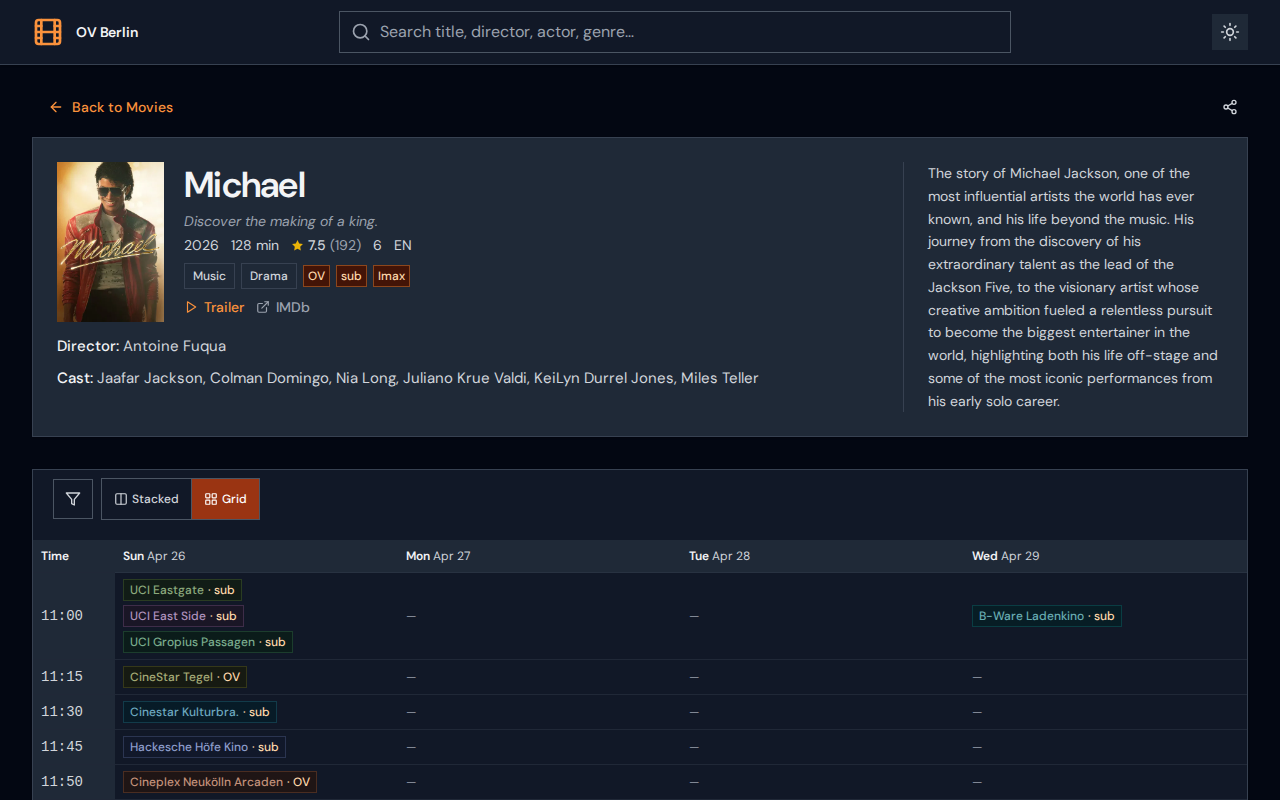
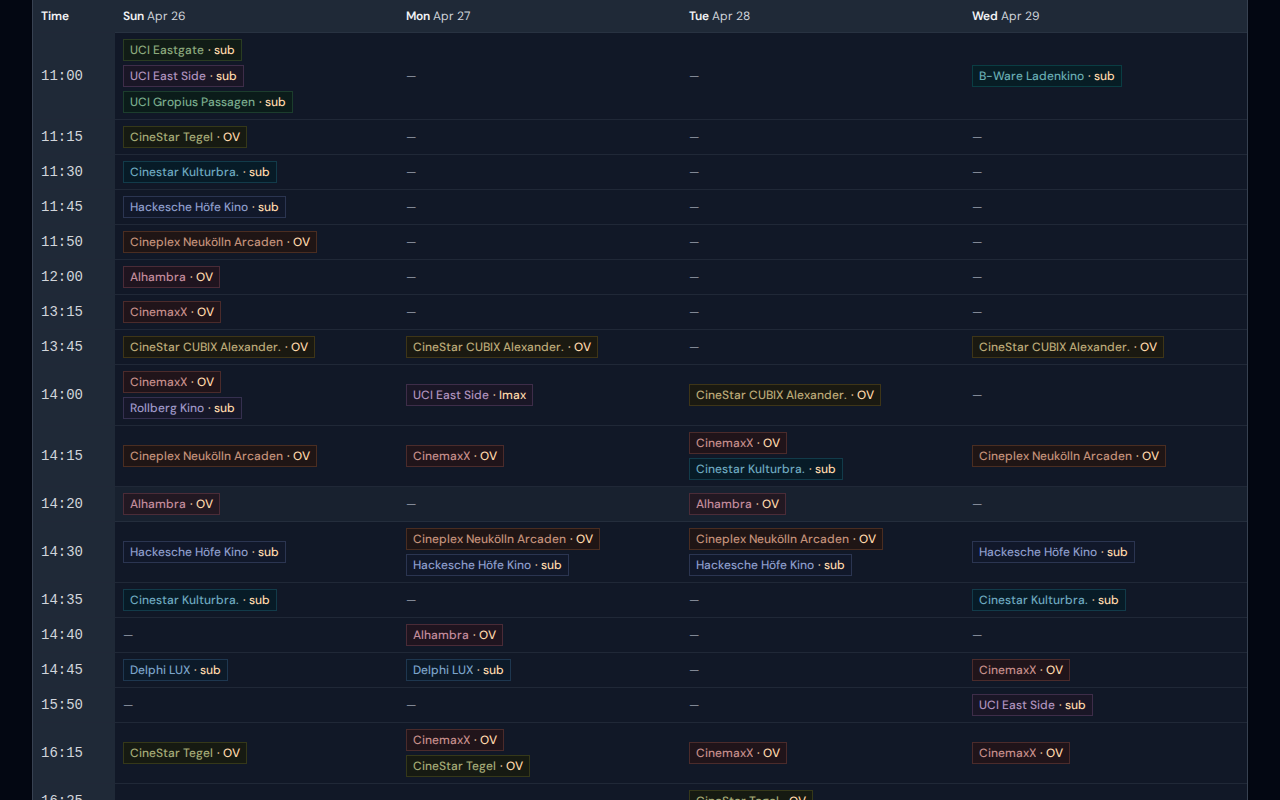
docs: stacked view screenshot at mobile size, grid view scrolled to table

diff --git a/scripts/screenshot.ts b/scripts/screenshot.ts
@@ -3,7 +3,8 @@ import path from 'path';
 
 const BASE_URL = process.argv[2] || 'https://ovberlin.site';
 const OUT_DIR = path.join(__dirname, '../docs');
-const VIEWPORT = { width: 1280, height: 800 };
+const DESKTOP = { width: 1280, height: 800 };
+const MOBILE = { width: 390, height: 844 };
 
 async function wait(ms: number) {
   return new Promise(r => setTimeout(r, ms));
@@ -12,20 +13,22 @@ async function wait(ms: number) {
 async function main() {
   console.log(`Capturing screenshots from ${BASE_URL}...`);
   const browser = await chromium.launch();
-  const ctx = await browser.newContext({ viewport: VIEWPORT, colorScheme: 'dark' });
-  const page = await ctx.newPage();
+
+  // ── Desktop context ──────────────────────────────────────────────────────
+  const desktop = await browser.newContext({ viewport: DESKTOP, colorScheme: 'dark' });
+  const page = await desktop.newPage();
 
   // 1 — Homepage: movie listing
   await page.goto(BASE_URL, { waitUntil: 'networkidle' });
   await page.waitForSelector('.ui-card', { timeout: 15000 });
   await wait(500);
-  await page.screenshot({ path: `${OUT_DIR}/screenshot1.png`, fullPage: false });
+  await page.screenshot({ path: `${OUT_DIR}/screenshot1.png` });
   console.log('✓ screenshot1.png — movie listing');
 
   // 4 — Search results
   await page.fill('input[type="text"]', 'drama');
   await wait(800);
-  await page.screenshot({ path: `${OUT_DIR}/screenshot4.png`, fullPage: false });
+  await page.screenshot({ path: `${OUT_DIR}/screenshot4.png` });
   console.log('✓ screenshot4.png — search results');
 
   // Navigate to first movie detail page
@@ -33,20 +36,31 @@ async function main() {
   await wait(400);
   const firstCard = page.locator('a[href^="/movie/"]').first();
   const href = await firstCard.getAttribute('href');
+
+  // 3 — Detail page: grid view, scrolled to showtimes
   await page.goto(`${BASE_URL}${href}`, { waitUntil: 'networkidle' });
   await wait(600);
-
-  // 2 — Detail page: stacked view (default)
-  await page.screenshot({ path: `${OUT_DIR}/screenshot2.png`, fullPage: false });
-  console.log('✓ screenshot2.png — detail stacked view');
-
-  // 3 — Detail page: grid view
   const gridBtn = page.getByTitle('Grid view');
   await gridBtn.click();
   await wait(400);
-  await page.screenshot({ path: `${OUT_DIR}/screenshot3.png`, fullPage: false });
+  await page.locator('table').first().scrollIntoViewIfNeeded();
+  await wait(300);
+  await page.screenshot({ path: `${OUT_DIR}/screenshot3.png` });
   console.log('✓ screenshot3.png — detail grid view');
 
+  await desktop.close();
+
+  // ── Mobile context ───────────────────────────────────────────────────────
+  const mobile = await browser.newContext({ viewport: MOBILE, colorScheme: 'dark' });
+  const mpage = await mobile.newPage();
+
+  // 2 — Detail page stacked view at mobile size
+  await mpage.goto(`${BASE_URL}${href}`, { waitUntil: 'networkidle' });
+  await wait(600);
+  await mpage.screenshot({ path: `${OUT_DIR}/screenshot2.png` });
+  console.log('✓ screenshot2.png — detail stacked view (mobile)');
+
+  await mobile.close();
   await browser.close();
   console.log('Done.');
 }
